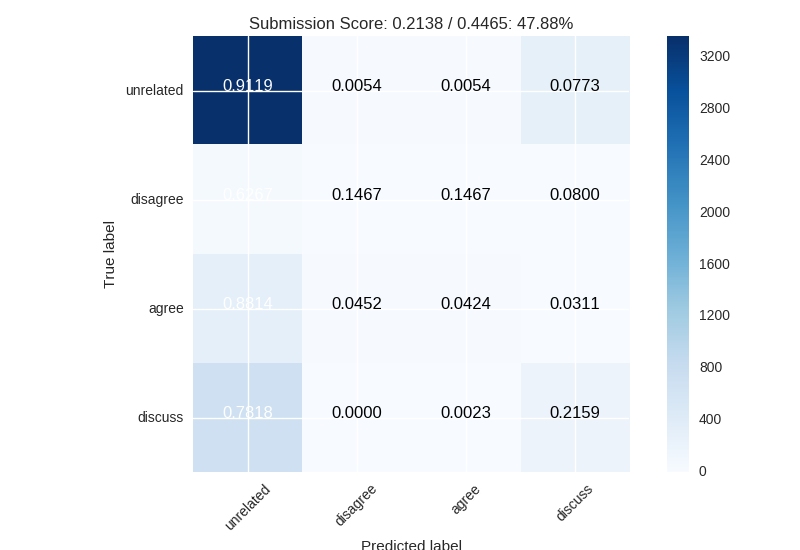
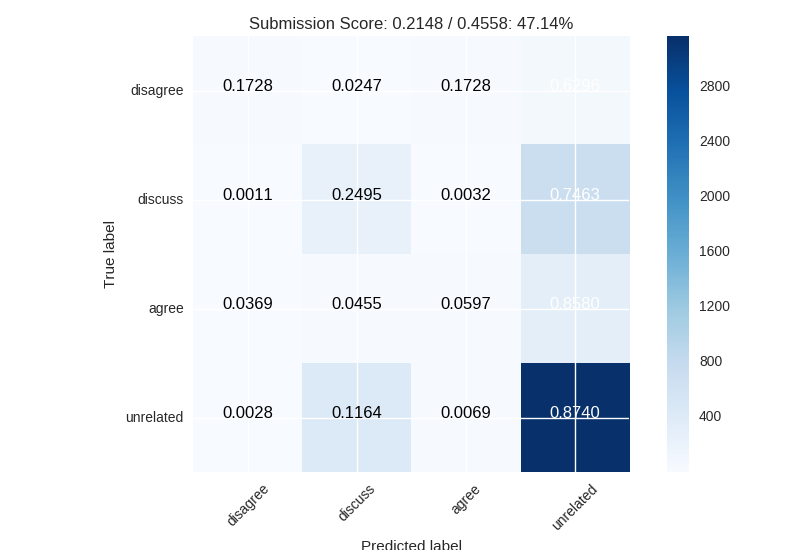
forgot to balance classes in logistic regressor

diff --git a/simple_model.py b/simple_model.py
@@ -81,5 +81,5 @@ if __name__ == "__main__":
     labels = list({a['Stance'] for a in articles})
     targets = [labels.index(a['Stance']) for a in articles]
 
-    run_pipeline("logistic_regression", LogisticRegression(C=0.95), (1, 2))
+    run_pipeline("logistic_regression", LogisticRegression(C=0.95, class_weight='balanced'), (1, 2))
     run_pipeline("adaboost", AdaBoostClassifier(n_estimators=256), (1, 2))

diff --git a/README.md b/README.md
@@ -23,7 +23,7 @@ Results Summary
 |                     | *Accuracy* | Score per Label | Max SpL | *Percent Score* |
 | ------------------- | ---------- | --------------- | ------- | --------------- |
 | AdaBoost            | 71.6%      | 0.2137          | 0.4464  | 47.88%          |
-| Logistic Regression | 79.3%      | 0.2574          | 0.4464  | 57.66%          |
+| Logistic Regression | 76.1%      | 0.3135          | 0.4556  | 68.81%          |
 | Skipthougt + RNN    | 93.9%      | 0.4312          | 0.4518  | 95.44%          |
 
 
@@ -37,7 +37,7 @@ Self-contained within the [simple_model.py](simple_model.py) file.
 
 Accuracy: 71.6%
 
-Score per label: 0.2137 out of 0.4464 (47.88%)
+Score per label: 0.2137 out of 0.4464 (47.88%) [on 10% validation]
 
 ![](images/simple_model_confusion_adaboost.png)
 
@@ -50,9 +50,9 @@ Self-contained within the [simple_model.py](simple_model.py) file.
 - concatinate tfidf vectors
 - feed into logistic regression (C=0.95)
 
-Accuracy: 79.3%
+Accuracy: 76.1%
 
-Score per label: 0.2574 out of 0.4464 (57.66%)
+Score per label: 0.3135 out of 0.4556 (68.81%) [on 10% validation]
 
 ![](images/simple_model_confusion_logistic_regression.png)
 
@@ -69,7 +69,7 @@ and evaluated with [model.py](model.py).
 
 Accuracy: 93.9%
 
-Score per label: 0.4312 /.4518 (95.44)
+Score per label: 0.4312 /.4518 (95.44) [on 10% validation]
 
 ![](images/model_confusion_best_val_acc.png)
 ![](images/model_history_best_val_acc.png)
